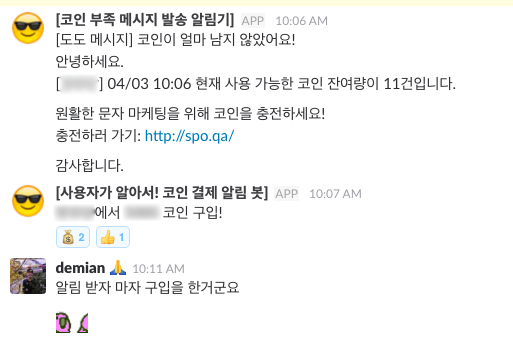
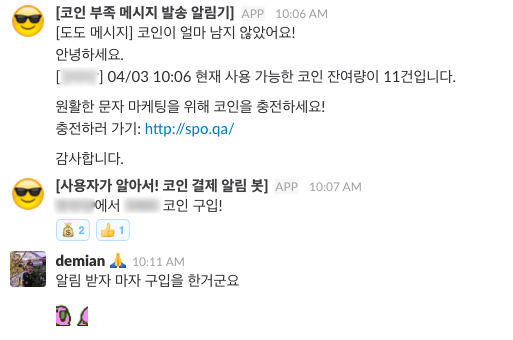
resize images

diff --git a/_posts/2016-10-26-bot-revolution.md b/_posts/2016-10-26-bot-revolution.md
@@ -7,18 +7,18 @@ description: 스포카의 슬랙봇 활용법 엿보기
 publish: true
 ---
 
-스포카에서 다년간 일하면서 나에게는 몇 가지 별명이 생겼다. 그 중 하나는 봇맘(Bot mom)이다. 다른 스타트업에서처럼 으레 스포카에서도 주어지고 보이는 일만 하는게 아니라 작고 큰 문제를 스스로 발견하고 고민할 기회가 왕왕 생긴다. 나 또한 그런 기회가 있었고 그러던 중 (귀차니즘을 극복하기 위해라고 쓰고) 일을 더 효율적으로 하기 위해(라고 읽는다) 봇(Bot)에 재미를 느끼게 되었다. 그리고 하나 둘 봇으로 문제를 해결하게 되었고 어느새 사람들이 그 별명을 붙여주었다.
+스포카에서 다년간 일하면서 나에게는 몇 가지 별명이 생겼다. 그 중 하나는 봇맘(Bot mom)이다. 다른 스타트업에서처럼 으레 스포카에서도 주어지는 일만 하는게 아니라 작고 큰 문제를 스스로 발견하고 고민할 기회가 왕왕 생긴다. 나 또한 그런 기회가 있었고 그러던 중 (귀차니즘을 극복하기 위해라고 쓰고) 일을 더 효율적으로 하기 위해(라고 읽는다) 봇(Bot)에 재미를 느끼게 되었다. 그리고 하나 둘 봇으로 문제를 해결하게 되었고 어느새 사람들이 그 별명을 붙여주었다.
 
 
 # 봇(Bot)
 
 2014년 즈음부터 스포카는 슬랙(Slack)[1]을 사내 메신저로 사용하고 있었고, 현재 아틀라시안 제품(JIRA, Confluence 등)과 Github을 함께 쓰고 있다. 이 서비스들이 제공하는 기본 라우팅 기능 만으로는 실제 업무 환경에서 불편함을 느끼게 되는 상황들이 더러 있어 슬랙봇 기능 등을 활용하게 되었다.
 
-팀마다 사용빈도는 다르지만 현재 많은 직원이 슬랙봇을 활용하고 있는데 지속적으로 업무 환경을 개선하는데 Bot 기능이 상당한 기여를 하고 있다.
+팀마다 사용빈도는 다르지만 현재 많은 직원이 슬랙봇을 활용하고 있는데 지속적으로 업무 환경을 개선하는데 봇 기능이 상당한 기여를 하고 있다.
 
 > 인터넷 상에서 자동화된 작업(스크립트)를 실행하는 응용 소프트웨어
 
-봇(Bot)[2]은 위와 같이 설명되고 있다. 슬랙에서 사용자가 설정한 단어가 입력되거나 시간대가 되었을 때, 설정했던 이미지나 텍스트로 보여주는 기능을 Bot이라고 생각하면 된다.
+봇(Bot)[2]은 위와 같이 설명되고 있다. 예를 들어, 슬랙에서 사용자가 설정한 단어가 입력되거나 시간대가 되었을 때, 설정했던 이미지나 텍스트가 자동으로 나오는 기능이라고 생각하면 된다.
 
 슬랙에서 기본적으로 제공하는 슬랙 봇과 Reminder 기능만 잘 활용해도 누구나 업무환경 개선을 시도해볼 수 있다. 개인적으로 스포카의 봇 활용(hacking)[3]은 어떠한 다른 팀과 비교해도 뒤지지 않는다 생각한다. 실제 업무에 적용한 사례를 보면 봇이 무엇인지, 무엇을 할 수 있는지 아는데 도움이 될 것이다. 큰 도움이 되고 있었던 사례를 모아 소개하겠다.[4]
 
@@ -28,14 +28,14 @@ publish: true
 #### 상황 및 의도
 서비스 내 용어가 팀별로 다르게 쓰이거나 여러가지로 불리고 있는 것들이 있었다. 혹은 서비스가 런칭/업데이트되면서 개편된 제품/기능이름들이 있었다. 이는 아는 사람끼리는 문제가 없지만 신규입사자나 아직 전달이 덜된 타팀과 소통할 때에는 오해가 생길 수 있었다. 이런 상황에서 UXD팀에서는 추가적으로 새로운 이름을 알리고 즉각 교정 효과를 볼 수도 있는 효율적인 방법을 고안하고자 했다.
 
-<img src="/images/2016-10-30/matic-message.png" style="margin: 0 auto; width: 510px;">
+<img src="/images/2016-10-30/matic-message.png" style="margin: 0 auto;">
 <figcaption>
   1-1. 도도 매틱이 도도 메시지로 서비스명이 변경되었음을 알리는 봇이다
 </figcaption>
 
-<img src="/images/2016-10-30/new-label-effect.png" style="margin: 0 auto; width: 510px;">
+<img src="/images/2016-10-30/new-label-effect.png" style="margin: 0 auto;">
 <figcaption>
-  1-2. 리뉴얼된 제품/기능이름을 알릴 때 쓰였던 슬랙봇들. 시간이 지나면서 제 임무를 다하고 사라졌다.
+  1-2. 개편된 제품/기능이름을 알릴 때 쓰였던 슬랙봇들. 시간이 지나면서 제 임무를 다하고 사라졌다.
 </figcaption>
 
 #### 효과
@@ -48,7 +48,7 @@ publish: true
 #### 상황 및 의도
 디자이너가 코드를 다루다가 가끔 알 수 없는 함정에 빠질 때가 있다. 서버가 왜인지 켜지지 않는다거나 원인을 명확히 알 수 없는 에러가 뜬다거나 하는 경우다. 그런 때면 개발자에게 도움을 요청하는데, 개발자의 입장에서는 진행하고 있던 업무를 잠시 중단하고 해결할 수 있는 커맨드를 알려주거나 알아보는데 시간이 걸릴 수 있다. 이럴 때 봇이 취해야하는 커맨드를 알려준다.
 
-<img src="/images/2016-10-30/command-helper.png" style="margin: 0 auto; width: 510px;">
+<img src="/images/2016-10-30/command-helper.png" style="margin: 0 auto;">
 <figcaption>
   봇으로 개발자가 도와줘야 하는 단계가 하나 줄었다!
 </figcaption>
@@ -65,17 +65,17 @@ publish: true
 
 다른 경우로는, 매번 특정 팀에게 물어보는 것이 있다. 사이트 내 친절히 설명을 작성하고 공지해도 정보 접근이 귀찮거나 어려운 곳에 있으면 바로 담당자에게 물어서 바로 올바른 답변을 얻고자 하게 된다. 이런 경우, 같은 질문을 하는 사람은 수십 명인데 답변하는 사람은 한 두명여서 답변하는 담당자는 피로해질 수 있다.
 
-<img src="/images/2016-10-30/weekly-meeting.png" style="margin: 0 auto; width: 510px;">
+<img src="/images/2016-10-30/weekly-meeting.png" style="margin: 0 auto;">
 <figcaption>
   3-1. 우리팀 주간미팅 회의록이 어딨더라...?
 </figcaption>
 
-<img src="/images/2016-10-30/des-format.png" style="margin: 0 auto; width: 510px;">
+<img src="/images/2016-10-30/des-format.png" style="margin: 0 auto;">
 <figcaption>
   3-2. 디자인팀에게 요청할 때 뭘 알려드려야 하지?
 </figcaption>
 
-<img src="/images/2016-10-30/area-list.png" style="margin: 0 auto; width: 510px;">
+<img src="/images/2016-10-30/area-list.png" style="margin: 0 auto;">
 <figcaption>
   3-3. 이 지역 담당자가 누구더라?
 </figcaption>
@@ -89,7 +89,7 @@ publish: true
 #### 상황 및 의도
 현재 스포카 Visual design팀(이하 VD팀)은 5명이며 디자인이라면 모두 관심을 가지고 의견을 주는데 주저함이 없다. 어떤 이슈를 진행할 때 중간 점검의 느낌으로 가볍게 1~2명에게 리뷰를 받고 싶을 때가 있다. 항상 같은 사람에게만 리뷰를 부탁하는건 아닌지, 다양한 의견을 받아보고는 싶은데 누구에게 돌리는게 좋을까, 리뷰어 선정에 고민을 하게 될 때가 있다. 혹은 이슈진행자가 정해지지 않았을 때 마음의 짐을 덜고 책임자를 정하는 잔인한 방법이 되기도 한다.(ㅋㅋ) 5명인데 1명 혹은 2명을 고르고 싶으므로 or/and를 병기하여 모든 경우의 수를 정리하여 봇을 만들었다.
 
-<img src="/images/2016-10-30/vd-random.png" style="margin: 0 auto; width: 510px;">
+<img src="/images/2016-10-30/vd-random.png" style="margin: 0 auto;">
 <figcaption>
   VD리뷰랜덤
 </figcaption>
@@ -103,7 +103,7 @@ publish: true
 
 앞서 소개한 유형들이 너무 단순하다고 느껴진다면 키워드 봇을 연속적으로 활용해보는 방법도 있다. 채팅형 봇을 만든 듯한 착각을 느끼게 할 수 있다.
 
-<img src="/images/2016-10-30/size-danawa.png" style="margin: 0 auto; width: 510px;">
+<img src="/images/2016-10-30/size-danawa.png" style="margin: 0 auto;">
 <figcaption>
   사이즈 다나와 (혹자는 이 사례를 보고 슬랙해킹의 정점을 달려가는 것 아니냐 감탄하였다.)
 </figcaption>
@@ -114,22 +114,22 @@ publish: true
 봇이 일상화되니 왠만한 정기적인 업무일정은 무조건 봇으로 만드는게 습관이 되었다.
 예전에는 다른 봇제작 서비스를 통해 만들던 기능이었는데, 슬랙에 리마인드(Remind) 기능이 업데이트 되면서 더 편해졌다. 리마인드 기능 설명은 [이쪽](https://get.slack.help/hc/en-us/articles/208423427-Set-a-reminder)을 참고 바란다.
 
-<img src="/images/2016-10-30/vd-sprint.png" style="margin: 0 auto; width: 510px;">
+<img src="/images/2016-10-30/vd-sprint.png" style="margin: 0 auto;">
 <figcaption>
   6-1. 스프린트 시작 알림 봇
 </figcaption>
 
-<img src="/images/2016-10-30/daily-meeting.png" style="margin: 0 auto; width: 510px;">
+<img src="/images/2016-10-30/daily-meeting.png" style="margin: 0 auto;">
 <figcaption>
   6-2. 데일리미팅 알림 봇
 </figcaption>
 
-<img src="/images/2016-10-30/friday-end.png" style="margin: 0 auto; width: 510px;">
+<img src="/images/2016-10-30/friday-end.png" style="margin: 0 auto;">
 <figcaption>
   6-3. 주말의 시작을 알리는 봇
 </figcaption>
 
-<img src="/images/2016-10-30/part-time-pay.png" style="margin: 0 auto; width: 510px;">
+<img src="/images/2016-10-30/part-time-pay.png" style="margin: 0 auto;">
 <figcaption>
   6-4. 디자인팀 알바비 정산을 잊지 않도록 도와주는 비서봇
 </figcaption>
@@ -140,21 +140,21 @@ publish: true
 
 
 #### 상황 및 의도
-지금까지 소개한 것들은 회사 내부에서 업무를 진행할 때 도움을 받고 내부 커뮤니케이션을 위한 것들이었다. 이번에 소개할 것은 회사 서비스와 관련된 개발자 친화적인 방법이다. 서비스 내 DB와 슬랙에서 제공하는 API를 접목하여 별도의 트래킹(tracking)툴 없이 실제 사용자의 행동 중 주요하게 알아야 하는 것을 슬랙봇으로 만든 것들이다.
+지금까지 소개한 것들은 회사 내부에서 업무를 진행할 때 도움을 받거나 내부 커뮤니케이션을 위한 것들이었다. 이번에 소개할 것은 회사 서비스와 관련된 개발자 친화적인 방법이다. 서비스 내 DB와 슬랙에서 제공하는 API를 접목하여 별도의 트래킹(tracking)툴 없이 실제 사용자의 행동 중 주요하게 알아야 하는 것을 슬랙봇으로 만든 것들이다.
 
-<img src="/images/2016-10-30/outlaw.png" style="margin: 0 auto; width: 510px;">
+<img src="/images/2016-10-30/outlaw.png" style="margin: 0 auto;">
 <figcaption>
   7-1. 부정적립으로 의심되는 이벤트를 알려주는 봇
 </figcaption>
 
-<img src="/images/2016-10-30/coin-noti.png" style="margin: 0 auto; width: 510px;">
+<img src="/images/2016-10-30/coin-noti.png" style="margin: 0 auto;">
 <figcaption>
   7-2. 매장 잔여코인 알림과 코인결제완료를 알려주는 봇
 </figcaption>
 
 
 #### 효과
-별도의 트래킹툴이나 웹사이트에 접속할 필요가 없고 실시간 데이터를 파악할 수 있었다. 또한 서비스에 주요한 영향을 끼치는 사용자의 실제 행동을 팀원들과 함께 빠르게 공유할 수 있었다.  
+별도의 트래킹툴이나 웹사이트에 접속할 필요 없이 실시간 데이터를 파악할 수 있었다. 또한 서비스에 주요한 영향을 끼치는 사용자의 실제 행동을 팀원들과 함께 빠르게 공유할 수 있었다.  
 
 
 # 봇을 만들 수 있는 다른 방법
